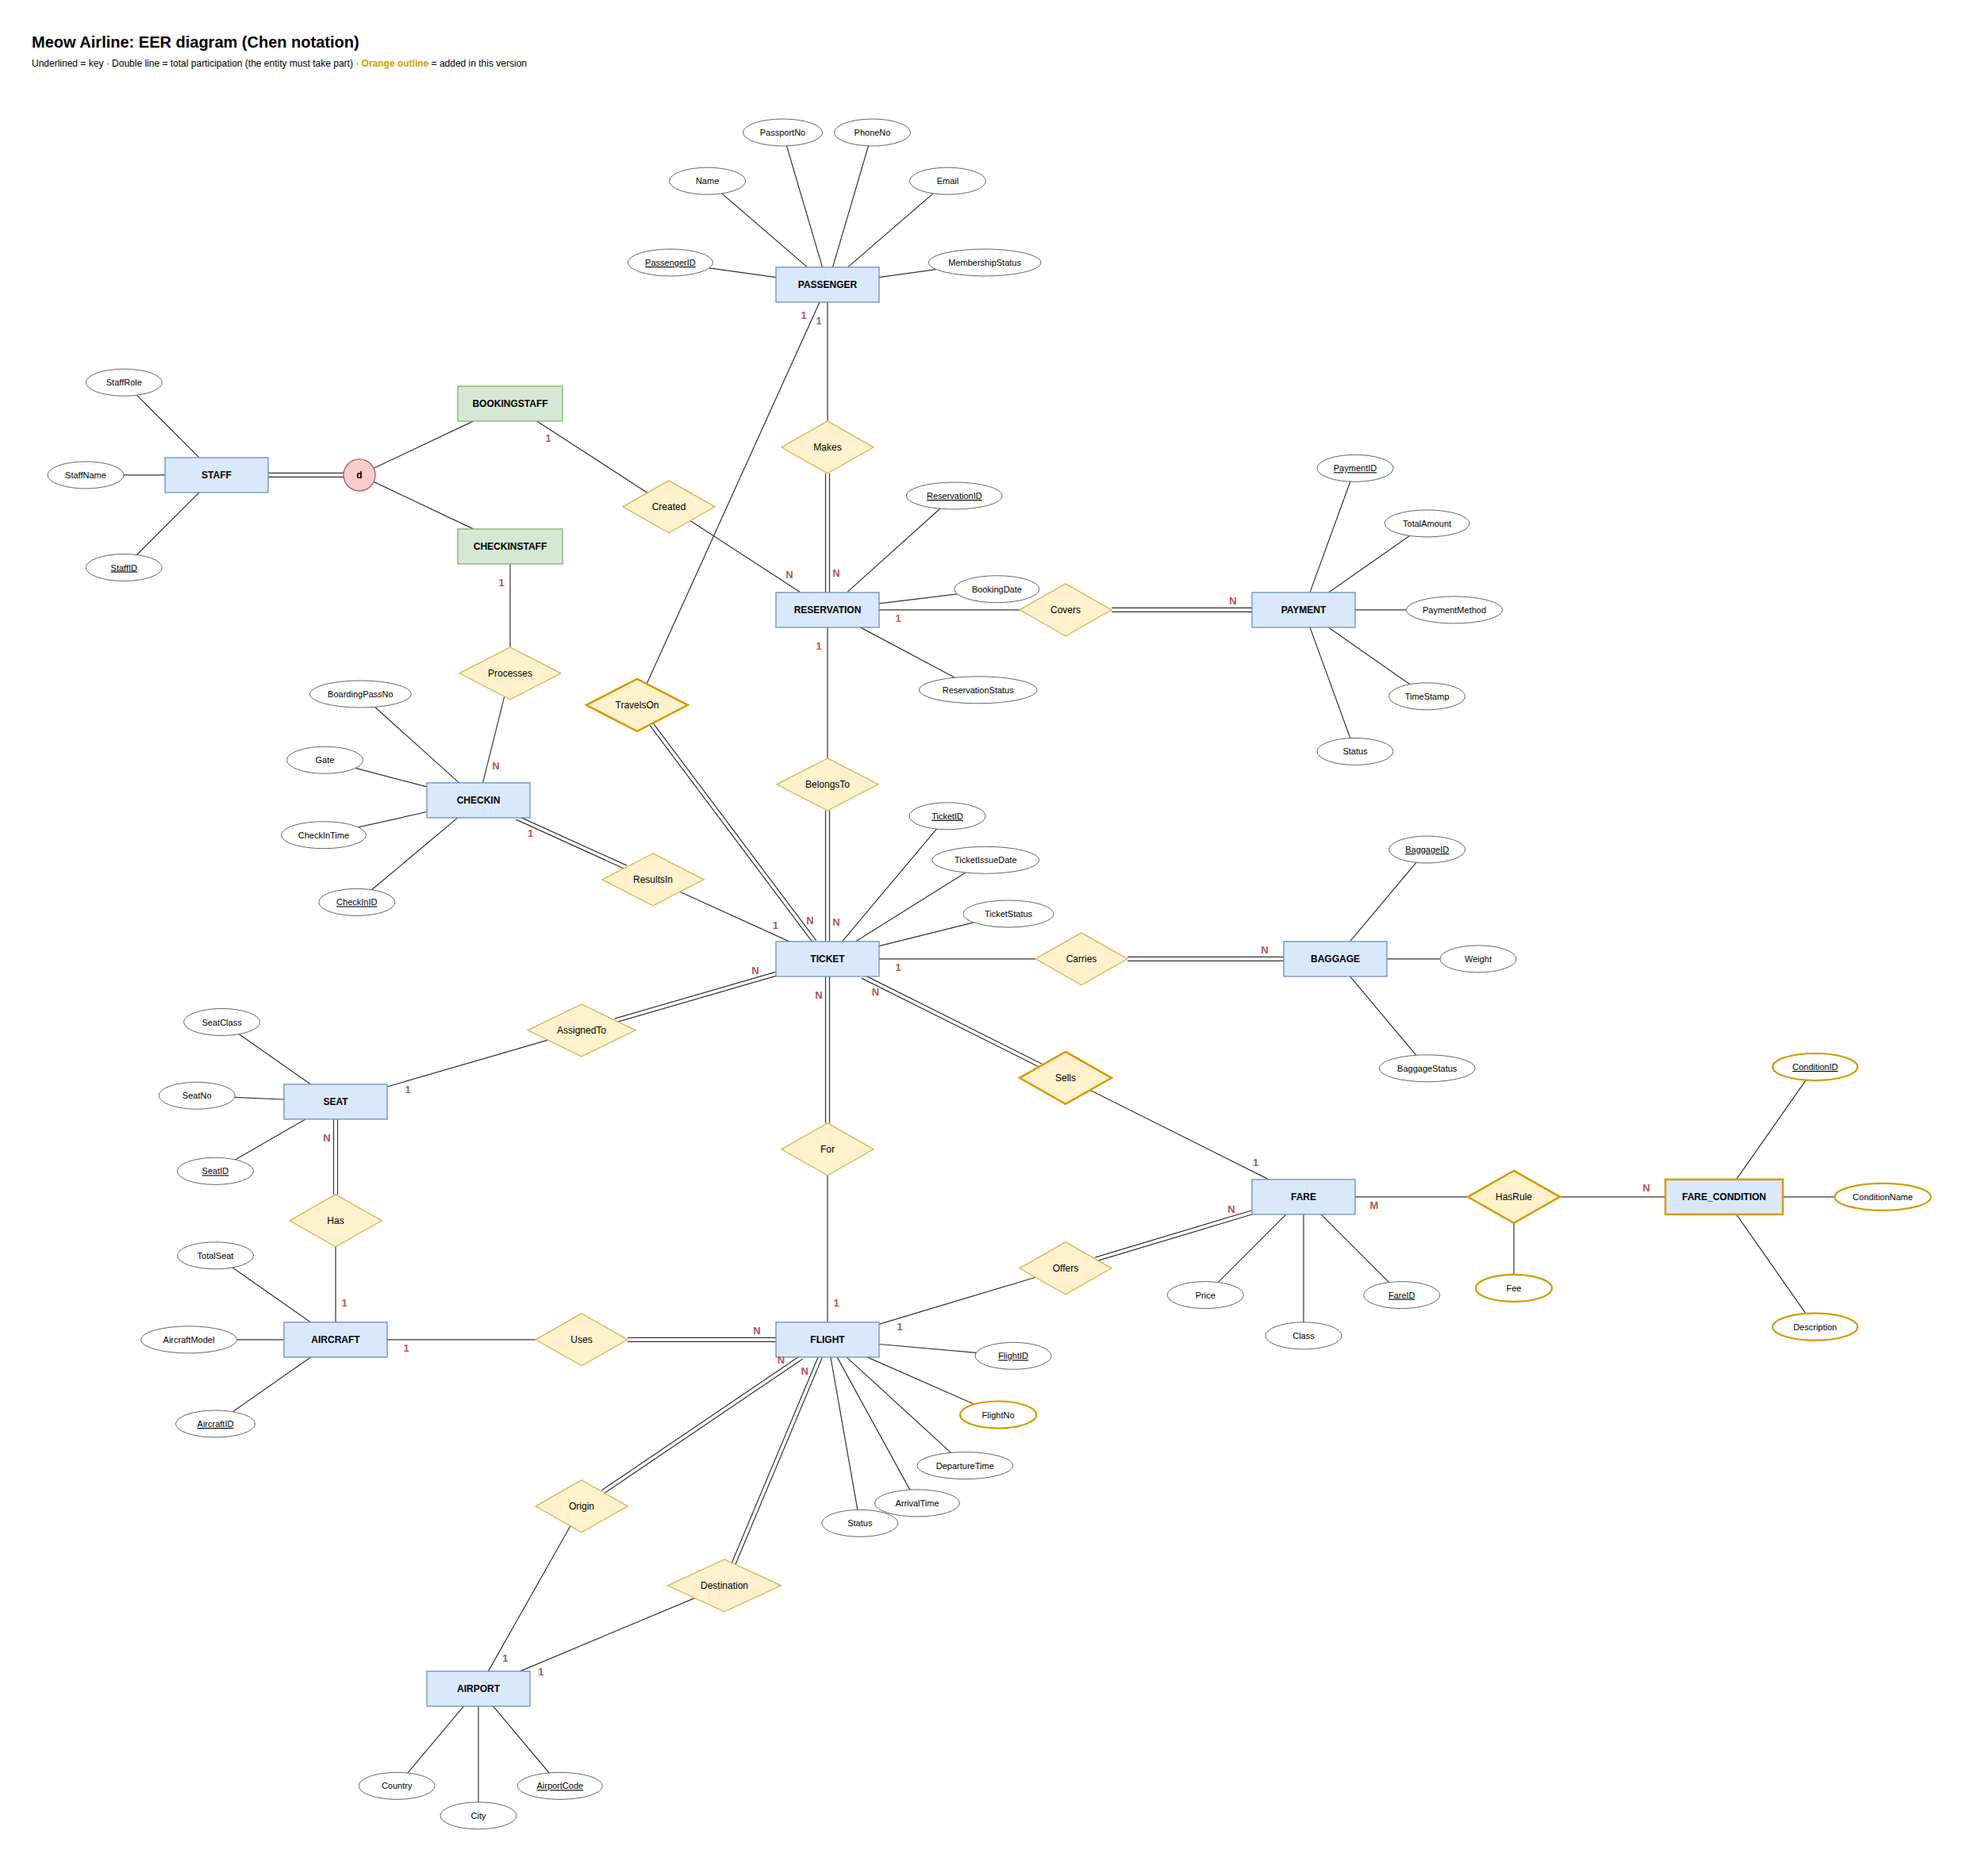
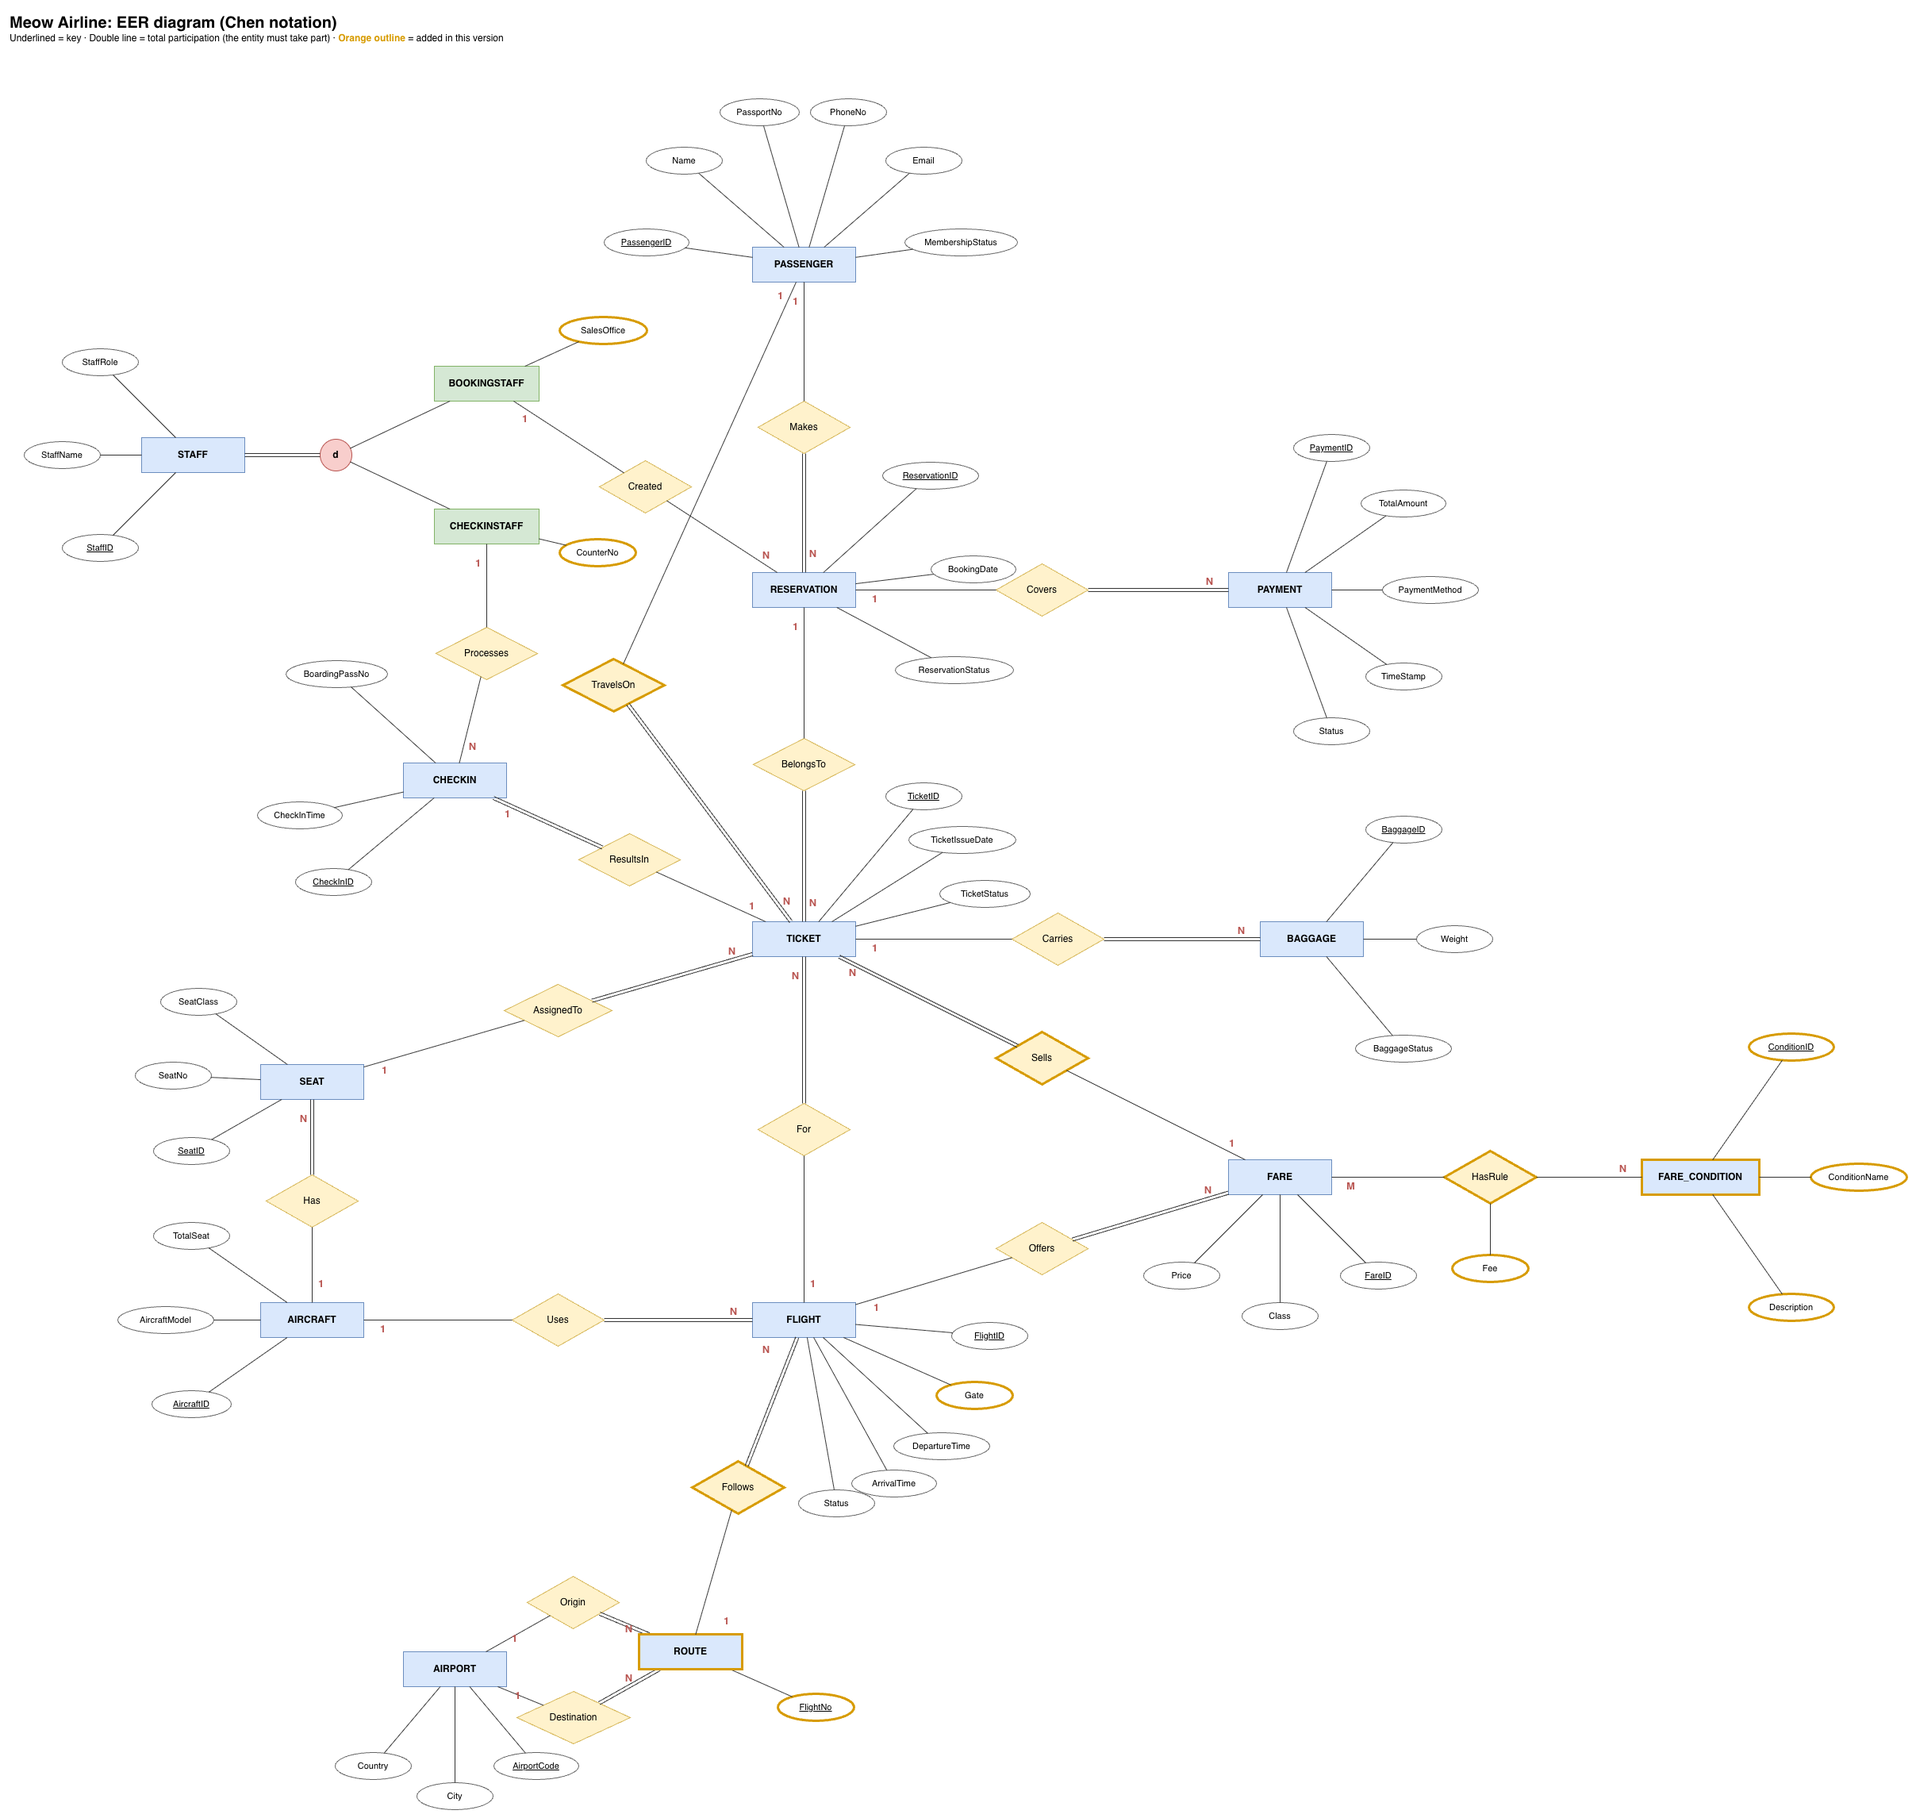
Update the EER for the 3NF decisions and fix FK action notes
- EER: new ROUTE entity (FlightNo key) with Follows (ROUTE 1:N FLIGHT);
  Origin and Destination now link AIRPORT to ROUTE; Gate moved from
  CHECKIN to FLIGHT; SalesOffice and CounterNo added to the staff
  subtypes. New parts are outlined in orange. PNG re-exported.
- DATABASE.md: the EER notes no longer say these changes are pending,
  and the ON UPDATE note lists all six RESTRICT foreign keys.

diff --git a/docs/DATABASE.md b/docs/DATABASE.md
@@ -13,16 +13,16 @@ Implemented in [`db/schema.sql`](../db/schema.sql) and tested on MySQL 8.0. The 
 RESERVATION and CHECKIN come from the EER's **Created** and **Processes** relationships.
 Columns in **bold** were added in the SQL. Checked against the EER (Phase 3): the first three are
 already in the diagram, and the next two are implementation helpers that Chen notation does not draw.
-The last three come from the team decisions of Tue 6 Oct and still need adding to the EER.
+The last three come from the team decisions of Tue 6 Oct and were added to the EER on Wed 7 Oct.
 
 - **FLIGHT.FlightNo** (`'MW101'`). The business question "seats free on flight MW101 on 20 October" needs a flight number that repeats every day. FlightID stays the surrogate PK. *In the EER as a FLIGHT attribute.*
 - **TICKET.PassengerID** → PASSENGER. The traveller on the ticket. RESERVATION.PassengerID stays as the person who booked, so a family of 3 on one reservation gets 3 named tickets (resolves open question 7). *In the EER as the TravelsOn relationship.*
 - **TICKET.FareID** → FARE. This gives each ticket its price, so income per route can be calculated (resolves open questions 3 and 4). *In the EER as the Sells relationship.*
 - **TICKET.ActiveSeat**. A generated helper column so MySQL itself enforces BR10 (see below). *Not drawn: derived from TicketStatus.*
 - **StaffRole in each subtype table**. Lets MySQL enforce BR14 (see below). *Not drawn: the EER shows StaffRole once, on STAFF, as the discriminator of the `d` specialisation.*
-- **ROUTE** (FlightNo, OriginCode, DestinationCode). A flight number always flies the same route, so the route is stored once here instead of on every dated flight (decision C). *To add to the EER: a ROUTE entity, Origin and Destination move from FLIGHT to ROUTE, and a new Follows relationship (ROUTE 1 : N FLIGHT).*
-- **BOOKINGSTAFF.SalesOffice** and **CHECKINSTAFF.CounterNo**. One attribute that only each subtype has (open question 5). *To add to the EER as an oval on each subtype.*
-- **FLIGHT.Gate**, moved from CHECKIN. A gate belongs to the departure, not to each passenger (decision E). *In the EER: move the Gate oval from CHECKIN to FLIGHT.*
+- **ROUTE** (FlightNo, OriginCode, DestinationCode). A flight number always flies the same route, so the route is stored once here instead of on every dated flight (decision C). *In the EER as the ROUTE entity and the Follows relationship (ROUTE 1 : N FLIGHT); Origin and Destination now link AIRPORT to ROUTE.*
+- **BOOKINGSTAFF.SalesOffice** and **CHECKINSTAFF.CounterNo**. One attribute that only each subtype has (open question 5). *In the EER as an oval on each subtype.*
+- **FLIGHT.Gate**, moved from CHECKIN. A gate belongs to the departure, not to each passenger (decision E). *In the EER as an attribute of FLIGHT.*
 
 The full relational model for report §4 (every table, PK, FK and FK action) is in
 [`RELATIONAL_MODEL.md`](RELATIONAL_MODEL.md).
@@ -78,8 +78,11 @@ M:N relationships (Lab 6 needs at least two):
 1. RESERVATION ⇄ FLIGHT, resolved by **TICKET** (extra attributes: SeatID, PassengerID, FareID, issue date, status)
 2. FARE ⇄ FARE_CONDITION, resolved by **FARE_RULE** (extra attribute: Fee)
 
-On-update actions are CASCADE, except the two AIRPORT FKs on ROUTE. Those use RESTRICT,
-because MySQL does not allow CASCADE on columns that a CHECK uses (`ROUTE_Airports_CK`, BR7).
+On-update actions are CASCADE, except six that use RESTRICT. The two AIRPORT FKs on ROUTE and the
+two staff subtype FKs cannot CASCADE, because MySQL does not allow it on columns that a CHECK uses
+(`ROUTE_Airports_CK`, BR7; the subtype role CHECKs, BR14). The two TICKET FKs that carry FlightID
+(`TICKET_FLIGHT_FK`, `TICKET_FARE_FK`) are RESTRICT because two cascade paths made MySQL fail with
+error 1452 when a ticketed flight was renumbered.
 
 ### Two rules enforced by MySQL itself, not only by the backend
 
